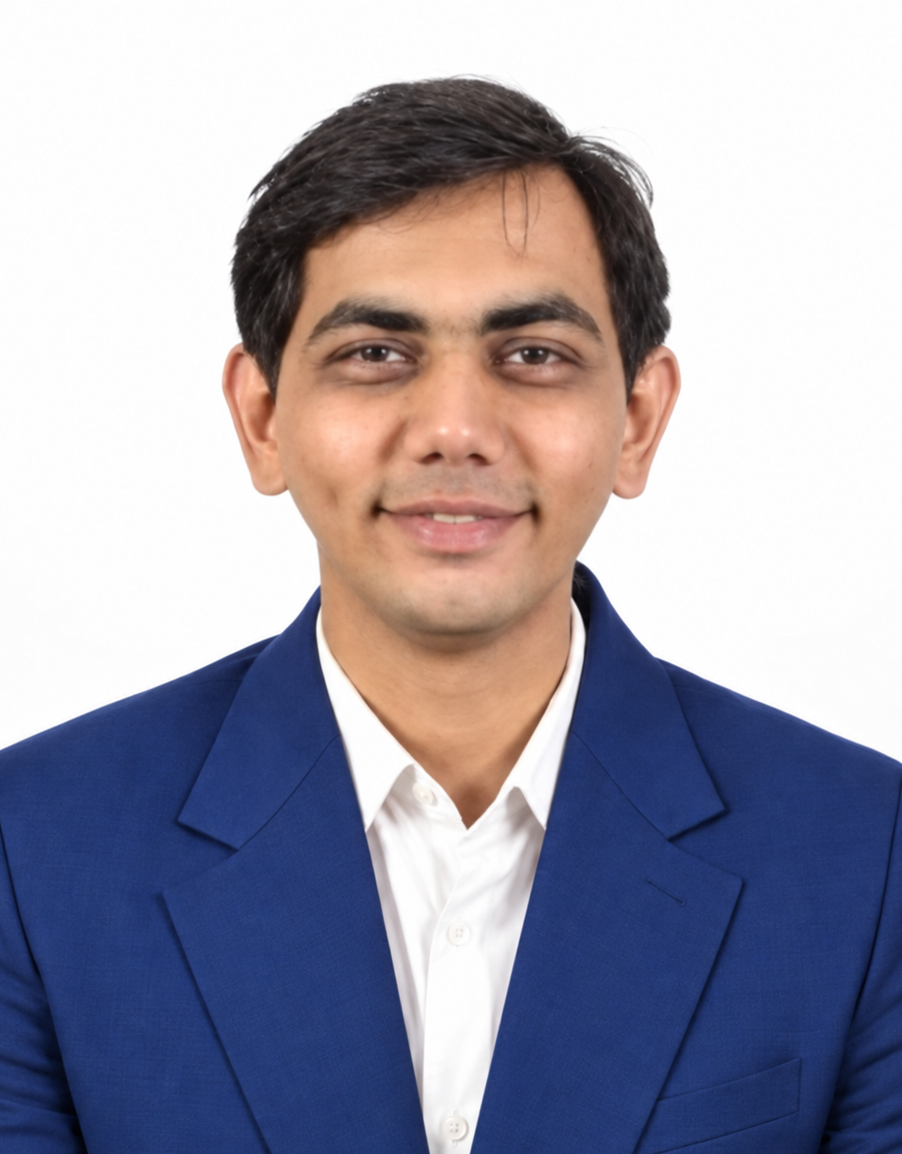
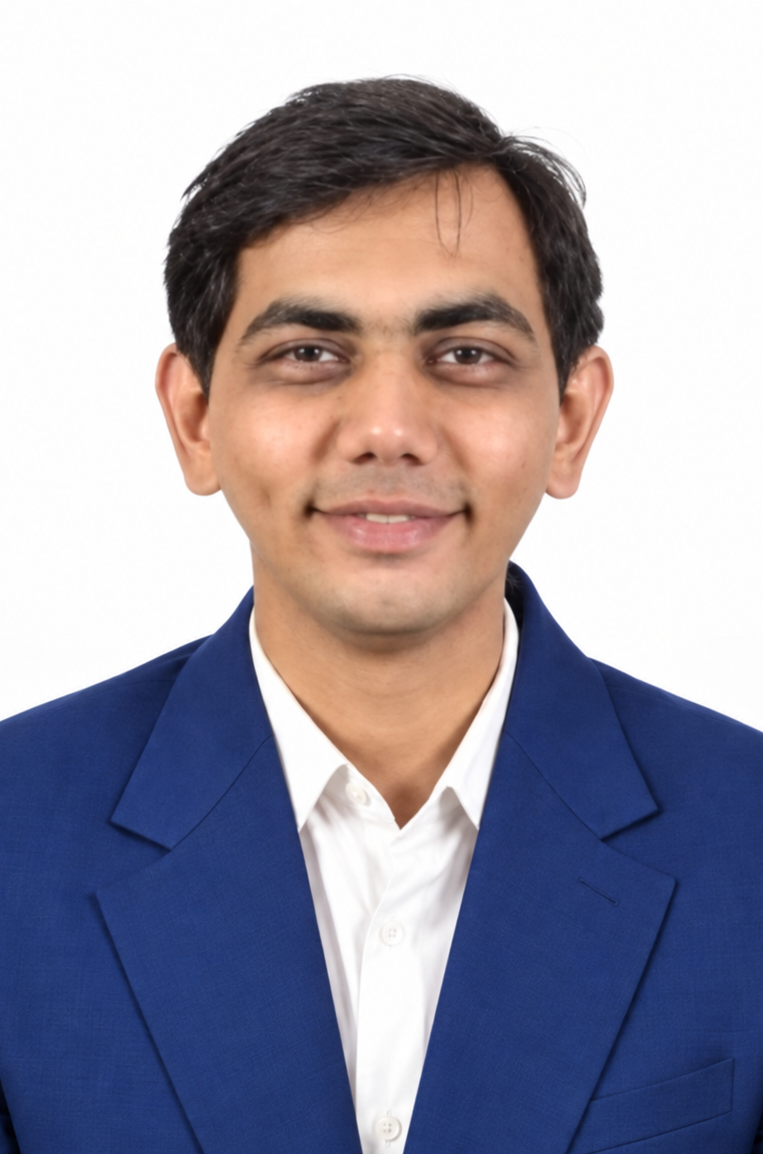
All files update

diff --git a/src/routes/case-studies.tsx b/src/routes/case-studies.tsx
@@ -36,17 +36,46 @@ const caseStudiesList = [
         title: "National Grid Optimization",
         industry: "Transmission",
         challenge: "High technical losses and unpredictable congestion during peak renewable generation.",
-        solution: "Deployed PowerTwinX for live flow simulation and dynamic rerouting.",
-        implementation: "3 weeks for total mapping & SCADA integration.",
-        results: ["15% reduction in technical loss", "Zero curtailment incidents", "$2M saved annually"]
+        solution: "Deployed PowerTwinX for live power-flow simulation, congestion analysis, and dynamic rerouting.",
+        implementation: "Digital mapping with SCADA and operational-data integration.",
+        results: ["15% potential reduction in technical losses*", "Zero avoidable curtailment events*", "$2M potential annual savings*"],
+        footnote: "*Illustrative PowerTwinX deployment targets — replace with validated customer results when available."
     },
     {
-        title: "Metro City Distribution",
+        title: "Smarter Feeder Management",
         industry: "Distribution",
-        challenge: "Frequent unpredicted transformer failures causing massive urban blackouts.",
-        solution: "Implemented predictive thermal modeling and anomaly detection via PowerTwinX.",
-        implementation: "2 weeks for asset ingestion and live sync.",
-        results: ["99.8% predictive accuracy", "40% faster response time", "Zero blind spots"]
+        challenge: "Limited visibility across distribution feeders caused voltage instability, inefficient asset utilisation, and delayed identification of network losses.",
+        solution: "PowerTwinX created a live digital representation of the distribution network to analyse power flows, identify anomalies, and optimise feeder operations.",
+        implementation: "Integrated GIS, smart-meter, SCADA, and feeder data into the PowerTwinX digital twin.",
+        results: ["20% faster identification of network anomalies*", "10% improvement in asset utilisation*", "25% reduction in avoidable field interventions*"],
+        footnote: "*Illustrative PowerTwinX targets.\n\nThis one is particularly well-grounded in real-world digital-twin applications. An IEA-supported Indian distribution-grid project used smart meters and sensors across 23 feeders and digital-twin models to analyse losses, load profiles, and voltage quality. It reported improved asset utilisation, more accurate energy measurement, and better visibility."
+    },
+    {
+        title: "Renewable Generation Optimization",
+        industry: "Renewable Energy",
+        challenge: "Variable solar and wind generation creates unpredictable power flows, increasing the risk of curtailment and making grid balancing more difficult.",
+        solution: "PowerTwinX simulates renewable-generation scenarios, forecasts system behaviour, and identifies optimal operating strategies before changes are implemented.",
+        implementation: "Connected generation data, weather inputs, network conditions, and operational models within the PowerTwinX environment.",
+        results: ["12% potential increase in renewable utilisation*", "30% faster scenario analysis*", "18% potential reduction in curtailment*"],
+        footnote: "*Illustrative PowerTwinX targets.\n\nThere is strong research support for this type of application: a UK smart-energy-network digital-twin demonstrator estimated that voltage-control strategies could reduce solar curtailment by 56% for an exemplar day."
+    },
+    {
+        title: "Predictive Asset Management",
+        industry: "Asset Intelligence",
+        challenge: "Reactive maintenance can result in unexpected failures, costly downtime, and unnecessary field inspections.",
+        solution: "PowerTwinX creates a digital representation of critical assets and continuously analyses operational behaviour to identify deviations and potential failure conditions.",
+        implementation: "Combined asset data, sensor information, historical performance, and predictive models within the digital twin.",
+        results: ["30% potential reduction in unplanned downtime*", "20% potential reduction in maintenance costs*", "40% faster fault identification*"],
+        footnote: "*Illustrative PowerTwinX targets.\n\nThis direction is also supported by current digital-twin research, which identifies predictive maintenance, fault detection, scenario simulation, and operational optimisation as major power-system applications."
+    },
+    {
+        title: "Intelligent Energy Optimization",
+        industry: "Energy Consumption",
+        challenge: "Large energy consumers often lack a unified view of where, when, and why energy is being consumed, making optimisation reactive rather than continuous.",
+        solution: "PowerTwinX builds a digital view of energy consumption across connected systems, identifying inefficient patterns and opportunities for intelligent load optimisation.",
+        implementation: "Connected real-time consumption data, equipment behaviour, operational schedules, and optimisation models.",
+        results: ["15% potential reduction in energy consumption*", "20% improvement in peak-load management*", "10% potential reduction in energy costs*"],
+        footnote: "*Illustrative PowerTwinX targets."
     }
 ];
 
@@ -74,14 +103,16 @@ export function CaseStudiesPage() {
       </Section>
 
       <Section className="pt-0">
-          {/* Filters Simulator */}
-          <div className="reveal flex gap-3 mb-10 overflow-x-auto pb-4">
-              {['All', 'Transmission', 'Distribution', 'Renewables'].map((f, i) => (
-                  <button key={i} className={`px-5 py-2 rounded-full border text-sm font-medium transition-colors ${i === 0 ? 'bg-primary text-primary-foreground border-primary' : 'bg-surface border-border hover:bg-muted'}`}>
+          {/* Filters Simulator - Temporarily Hidden */}
+          {false && (
+          <div className="reveal flex gap-3 mb-10 overflow-x-auto pb-4 custom-scrollbar">
+              {['All', 'Transmission', 'Distribution', 'Renewable Energy', 'Asset Intelligence', 'Energy Consumption'].map((f, i) => (
+                  <button key={i} className={`px-5 py-2 rounded-full border text-sm font-medium transition-colors whitespace-nowrap ${i === 0 ? 'bg-primary text-primary-foreground border-primary' : 'bg-surface border-border hover:bg-muted'}`}>
                       {f}
                   </button>
               ))}
           </div>
+          )}
 
           <div className="grid gap-12">
               {caseStudiesList.map((study, i) => (
@@ -109,21 +140,27 @@ export function CaseStudiesPage() {
                                   </div>
                               </div>
                           </div>
-                          
-                          <div className="md:w-2/3 bg-muted/20 rounded-2xl p-8 border border-border/40">
-                              <h3 className="text-lg font-medium mb-6">Key Results & KPIs</h3>
-                              <div className="grid sm:grid-cols-3 gap-6">
-                                  {study.results.map((res, idx) => {
-                                      const highlight = res.split(' ')[0];
-                                      const rest = res.substring(highlight.length + 1);
-                                      return (
-                                        <div key={idx} className="flex flex-col">
-                                            <span className="text-4xl font-display text-volt mb-2">{highlight}</span>
-                                            <span className="text-sm text-muted-foreground">{rest}</span>
-                                        </div>
-                                      );
-                                  })}
+                          <div className="md:w-2/3 bg-muted/20 rounded-2xl p-8 border border-border/40 flex flex-col justify-between">
+                              <div>
+                                  <h3 className="text-lg font-medium mb-6">Key Results & KPIs</h3>
+                                  <div className="grid sm:grid-cols-3 gap-6">
+                                      {study.results.map((res, idx) => {
+                                          const highlight = res.split(' ')[0];
+                                          const rest = res.substring(highlight.length + 1);
+                                          return (
+                                            <div key={idx} className="flex flex-col">
+                                                <span className="text-4xl font-display text-volt mb-2">{highlight}</span>
+                                                <span className="text-sm text-muted-foreground">{rest}</span>
+                                            </div>
+                                          );
+                                      })}
+                                  </div>
                               </div>
+                              {study.footnote && (
+                                  <div className="mt-8 pt-6 border-t border-border/50">
+                                      <p className="text-xs text-muted-foreground/60 whitespace-pre-wrap leading-relaxed">{study.footnote}</p>
+                                  </div>
+                              )}
                           </div>
                       </div>
                   </div>
